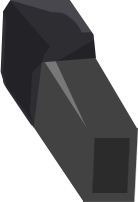
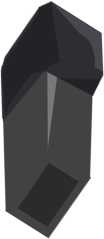
보스2 대포 관련 시스템은 완성된 듯

diff --git a/Boss2_1.cpp b/Boss2_1.cpp
@@ -12,6 +12,19 @@ Boss2_1::~Boss2_1()
 
 void Boss2_1::Init()
 {
+	Object* cannon_object[4];
+	Vector2 localPositions[4] = { Vector2(-150, -90), Vector2(150, -90), Vector2(-150, 30), Vector2(150,  30) };
+	string names[4] = { "Boss2_1_LTop", "Boss2_1_RTop", "Boss2_1_LBottom", "Boss2_1_RBottom" };
+	float rotation_z[4] = { 135, -135, 45, -45 };
+
+	for (int i = 0; i < 4; i++)
+	{
+		cannon_object[i] = OBJECT->CreateObject(names[i], EBoss, m_transform->m_position + localPositions[i]);
+		cannons[i] = cannon_object[i]->AddComponent<Cannon>();
+		cannons[i]->SetCannon(IMAGE->FindImage(names[i]));
+		cannons[i]->m_transform->m_rotationZ = rotation_z[i];
+	}
+
 	renderer = m_object->AddComponent<RendererC>();
 	collider = m_object->AddComponent<BoxColliderC>();
 
@@ -21,22 +34,14 @@ void Boss2_1::Init()
 	var img_info = image->info;
 	collider->SetCollider(img_info.Width / 2, img_info.Height / 2);
 
-	Object* cannon_object[4];
-	Vector2 localPositions[4] = { Vector2(-50, -30), Vector2(50, -30), Vector2(-50, -30), Vector2(50, 30) };
-	string names[4] = { "Cannon_LTop", "Cannon_RTop", "Cannon_LBottom", "Cannon_RBotton" };
-
-	for (int i = 0; i < 4; i++)
-	{
-		cannon_object[i] = OBJECT->CreateObject(names[i], EBoss, m_transform->m_position + localPositions[i]);
-		cannons[i] = cannon_object[i]->AddComponent<Cannon>();
-		cannons[i]->SetCannon(IMAGE->FindImage(names[i]));
-	}
-
 	m_object->m_hp = 100;
 }
 
 void Boss2_1::Update()
 {
+	if (GetKey(VK_SPACE))
+		for (var iter : cannons)
+			iter->Rotation(mouse);
 }
 
 void Boss2_1::Render()

diff --git a/Cannon.cpp b/Cannon.cpp
@@ -12,6 +12,7 @@ Cannon::~Cannon()
 
 void Cannon::Init()
 {
+	m_object->m_hp = 50;
 }
 
 void Cannon::Update()
@@ -38,4 +39,7 @@ void Cannon::SetCannon(Image* image)
 
 void Cannon::Rotation(Vector2 target_position)
 {
+	Vector2 direction = target_position - m_transform->m_position;
+	D3DXVec2Normalize(&direction, &direction);
+	m_transform->m_rotationZ = D3DXToDegree(atan2(direction.y, direction.x)) - 90;
 }
